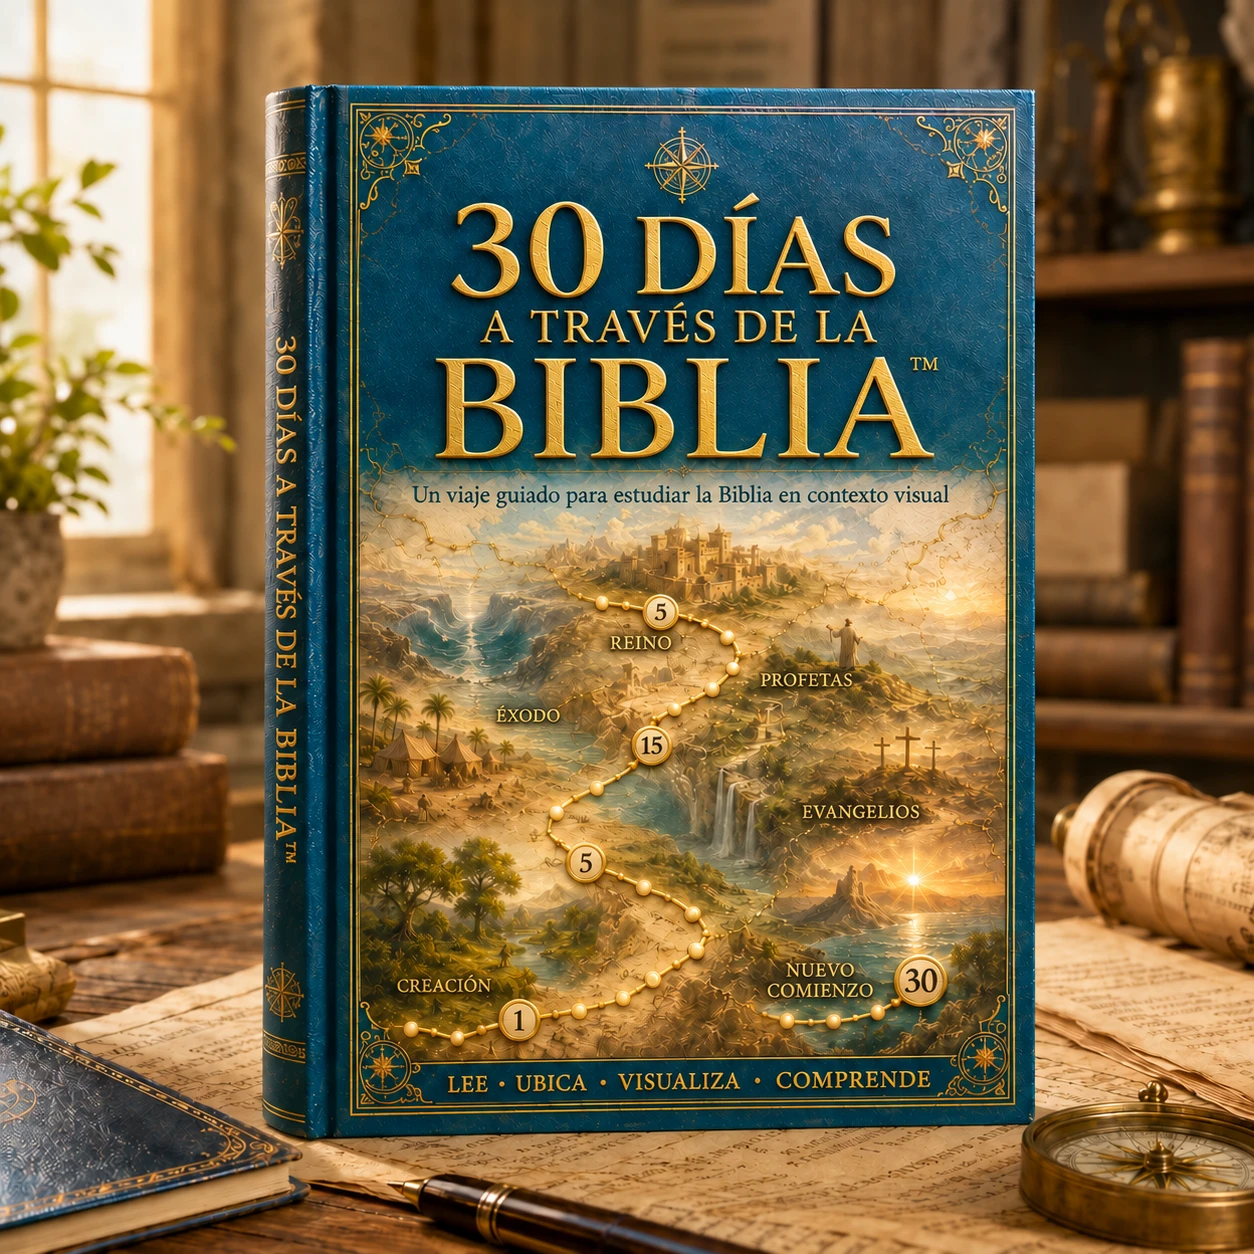
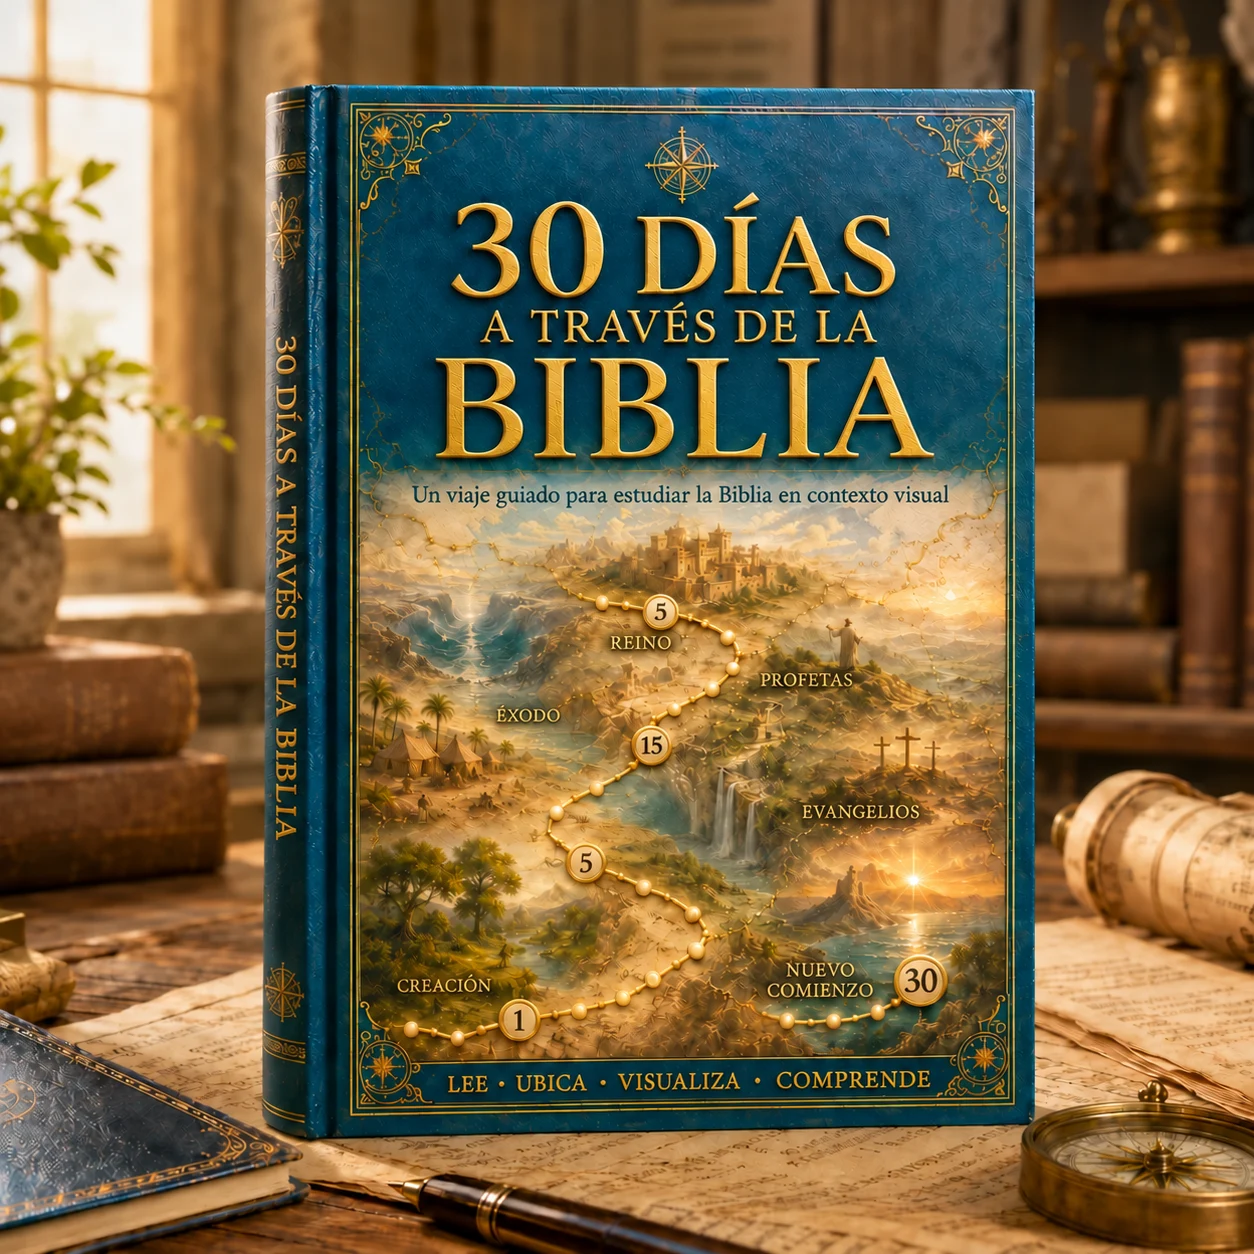
Remove trademark marks from Biblical World 3D cover artwork

diff --git a/bw3d/index.html b/bw3d/index.html
@@ -872,7 +872,7 @@ footer{width:100%;background:#070503;border-top:1px solid rgba(245,197,66,.12);p
 <strong>Para que puedas comprenderla con mayor claridad y mostrársela a otros.</strong>
 </p>
 <div class="hero-img-wrap">
-<img alt="Biblical World 3D — sistema visual completo con mapa interactivo y volúmenes adicionales" decoding="async" fetchpriority="high" height="860" loading="eager" src="images/es/1788384792380_2480b7cc-cb81-4bda-80ae-87ccb8065074.webp" width="860"/>
+<img alt="Biblical World 3D — sistema visual completo con mapa interactivo y volúmenes adicionales" decoding="async" fetchpriority="high" height="860" loading="eager" src="images/es/1788384792380_2480b7cc-cb81-4bda-80ae-87ccb8065074.webp?v=20261125-sin-tm" width="860"/>
 </div>
 <div class="hero-pills">
 <span>📖 Más de 300 páginas</span><span class="div"></span>
@@ -1018,7 +1018,7 @@ footer{width:100%;background:#070503;border-top:1px solid rgba(245,197,66,.12);p
 <div class="sol-stat"><p>6</p><p>bonos</p></div>
 </div>
 <div style="width:100%;max-width:560px;margin:0 auto 2.5rem;border-radius:16px;overflow:hidden;box-shadow:0 0 60px rgba(225,132,22,.22)">
-<img alt="Biblical World 3D — Sistema Visual Completo" decoding="async" height="860" loading="lazy" src="images/es/1787456696724_biblical-world-3d.webp" style="width:100%;height:auto;display:block" width="860"/>
+<img alt="Biblical World 3D — Sistema Visual Completo" decoding="async" height="860" loading="lazy" src="images/es/1787456696724_biblical-world-3d.webp?v=20261125-sin-tm" style="width:100%;height:auto;display:block" width="860"/>
 </div>
 <style>
     .recibis-box{max-width:620px;margin:0 auto 2rem;padding:22px 20px;border-radius:16px;border:1.5px solid rgba(245,197,66,.55);background:linear-gradient(160deg,rgba(33,24,16,.72),rgba(14,11,8,.96));text-align:left}
@@ -1209,7 +1209,7 @@ footer{width:100%;background:#070503;border-top:1px solid rgba(245,197,66,.12);p
 </div>
 </div>
 <div class="bono-row">
-<div class="bono-row-img"><img alt="Bono 2 — Pueblos, Imperios y Civilizaciones de la Biblia" decoding="async" height="860" loading="lazy" src="images/es/1787456378491_bonus-2-pueblos.webp" width="860"/></div>
+<div class="bono-row-img"><img alt="Bono 2 — Pueblos, Imperios y Civilizaciones de la Biblia" decoding="async" height="860" loading="lazy" src="images/es/1787456378491_bonus-2-pueblos.webp?v=20261125-sin-tm" width="860"/></div>
 <div class="bono-row-body">
 <div class="bono-row-icon">🏛</div>
 <div class="bono-row-texts">
@@ -1243,7 +1243,7 @@ footer{width:100%;background:#070503;border-top:1px solid rgba(245,197,66,.12);p
 </div>
 </div>
 <div class="bono-row">
-<div class="bono-row-img"><img alt="Bono 4 — El Tabernáculo y los Templos de la Biblia en 3D" decoding="async" height="860" loading="lazy" src="images/es/1787456382861_bonus-4-tabernaculos.webp" width="860"/></div>
+<div class="bono-row-img"><img alt="Bono 4 — El Tabernáculo y los Templos de la Biblia en 3D" decoding="async" height="860" loading="lazy" src="images/es/1787456382861_bonus-4-tabernaculos.webp?v=20261125-sin-tm" width="860"/></div>
 <div class="bono-row-body">
 <div class="bono-row-icon">⛪</div>
 <div class="bono-row-texts">
@@ -1260,7 +1260,7 @@ footer{width:100%;background:#070503;border-top:1px solid rgba(245,197,66,.12);p
 </div>
 </div>
 <div class="bono-row">
-<div class="bono-row-img"><img alt="Bono 5 — 30 Días a Través de la Biblia" decoding="async" height="860" loading="lazy" src="images/es/1787456385359_bonus-5-30-dias.webp" width="860"/></div>
+<div class="bono-row-img"><img alt="Bono 5 — 30 Días a Través de la Biblia" decoding="async" height="860" loading="lazy" src="images/es/1787456385359_bonus-5-30-dias.webp?v=20261125-sin-tm" width="860"/></div>
 <div class="bono-row-body">
 <div class="bono-row-icon">📅</div>
 <div class="bono-row-texts">
@@ -1313,7 +1313,7 @@ footer{width:100%;background:#070503;border-top:1px solid rgba(245,197,66,.12);p
 <div class="price-card">
 <div class="price-card-badge">⭐ OFERTA ESPECIAL DE LANZAMIENTO</div>
 <div class="price-card-img">
-<img alt="Biblical World 3D — sistema completo con mapa interactivo y seis volúmenes adicionales" decoding="async" height="480" loading="lazy" src="images/es/1788384792380_2480b7cc-cb81-4bda-80ae-87ccb8065074.webp" width="480"/>
+<img alt="Biblical World 3D — sistema completo con mapa interactivo y seis volúmenes adicionales" decoding="async" height="480" loading="lazy" src="images/es/1788384792380_2480b7cc-cb81-4bda-80ae-87ccb8065074.webp?v=20261125-sin-tm" width="480"/>
 </div>
 <h3>BIBLICAL WORLD 3D — SISTEMA COMPLETO</h3>
 <p class="price-sub">9 guías PDF + 6 libros adicionales + 2 aplicaciones web + 18 animaciones 3D</p>
